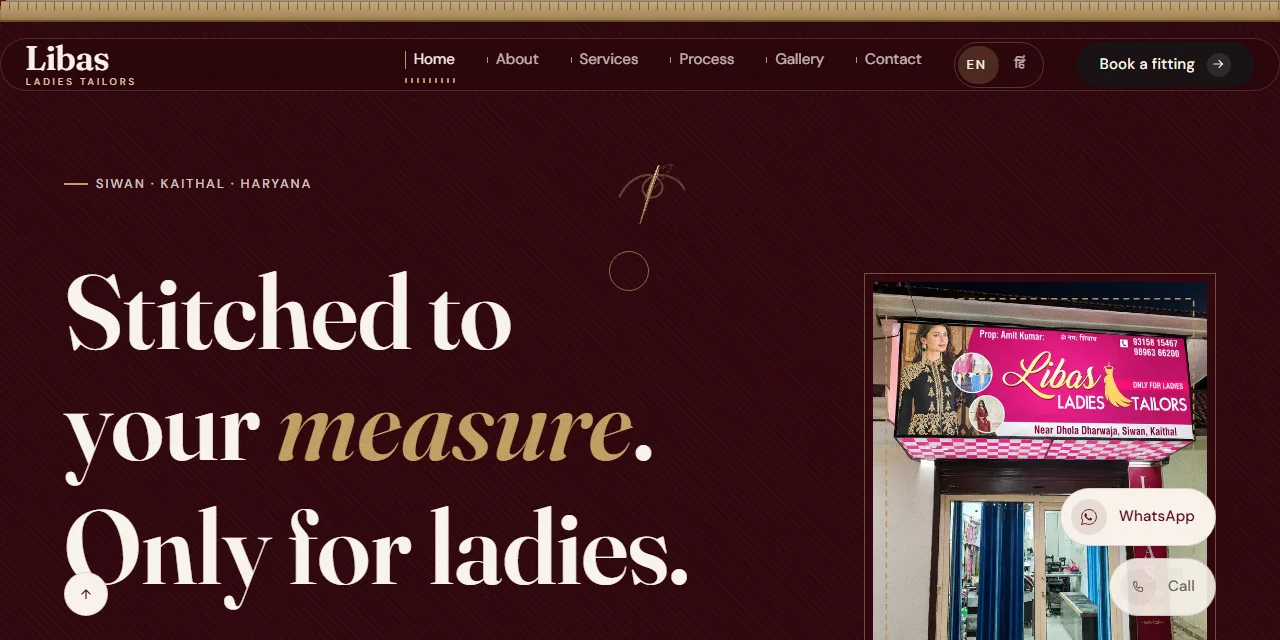
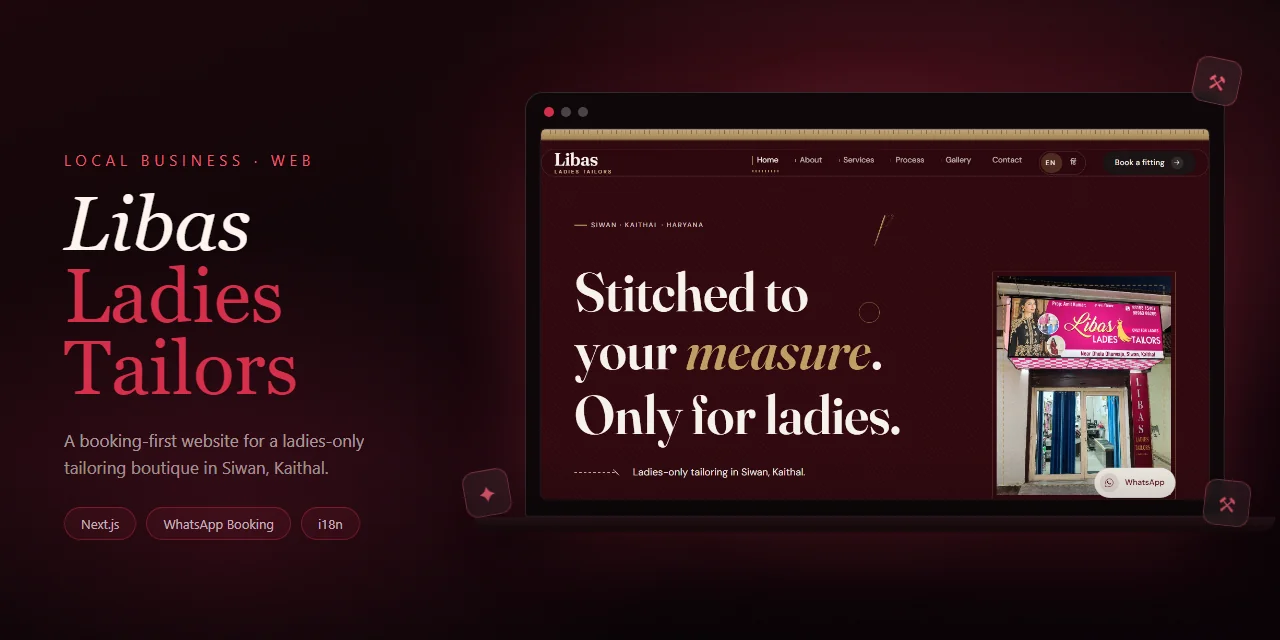
v67: redesign Libas thumbnail as cinematic showcase (real site screenshot in browser mockup)

diff --git a/AGENTS.md b/AGENTS.md
@@ -147,6 +147,13 @@
 
 ## 📝 Changelog (History of Work)
 
+### [v67 — Libas thumbnail redesigned to cinematic showcase style] — 12 Nov 2026
+
+- User: "dusre project dekh kitne acche thumbnail h, ese he karo" — plain screenshot thumbnail nahi pasand.
+- Naya thumbnail = HTML/CSS mockup scene (`%TEMP%\opencode\libas-mockup.html`) rendered via Chrome headless 1280×640 → WebP q85 (`python` PIL 13): crimson glow bg + browser frame me **real** Libas site screenshot (`libas-hero.png`, live site se) + left brand block (Libas / Ladies Tailors + tagline + tech chips) + floating accents + grain — same vibe as AI Assistant/Neon cinematic laptop showcases.
+- Same path overwrite: `public/assets/projects/libas-ladies-tailors.webp` (77,460 → **48,326 B**) — `src/data.ts` / seed / live DB ka `/assets/projects/...` path unchanged, koi data change nahi.
+- Gates: lint 0 errors (7 pre-existing warnings) · build pass (`/` 128,399 B) · verify All checks passed · secrets:check clean (118 files).
+
 ### [v66 — 4th project added: Libas Ladies Tailors] — 12 Nov 2026
 
 - User asked to add the Libas Ladies Tailors site (https://libas-ladies-tailors.netlify.app/) to Selected Work with a thumbnail, then push live.
